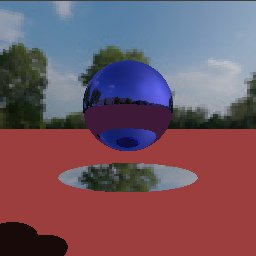
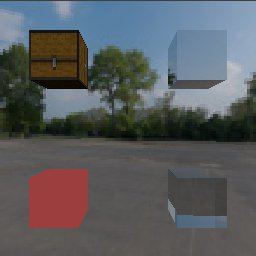
cubos
se implementaron los cubos

diff --git a/figuras.py b/figuras.py
@@ -106,5 +106,88 @@ class Disk(Plane):
                      texcoords= None,
                      obj = self)
   
+class AABB(Shape):
+  # Axis Aligned Bounding box
+  def __init__(self, position, size, material):
+    super().__init__(position, material)
+
+    self.planes = []
+    self.size = size
+
+    
+    leftPlane = Plane(np.add(self.position , (-size[0]/ 2,0,0)), (-1,0,0), material )
+    rightPlane = Plane(np.add(self.position , (size[0] / 2,0,0)), (1,0,0), material )
+
+    bottomPlane = Plane(np.add(self.position, (0,-size[1] / 2,0)),(0,-1,0),material)
+    topPlane = Plane(np.add(self.position, (0,size[1] / 2,0)),(0,1,0),material)
+
+    backPlane = Plane(np.add(self.position, (0,0,-size[2] / 2)),(0,0,-1),material)
+    frontPlane = Plane(np.add(self.position, (0,0,size[2] / 2)),(0,0,1),material)
+
+    self.planes.append(leftPlane)
+    self.planes.append(rightPlane)
+    self.planes.append(bottomPlane)
+    self.planes.append(topPlane)
+    self.planes.append(backPlane)
+    self.planes.append(frontPlane)
+    
+    # Bounds
+    self.boundsMin = [0,0,0]
+    self.boundsMax = [0,0,0]
+
+    bias = 0.001
+
+    for i in range(3):
+      self.boundsMin[i] = self.position[i] - (bias + size[i]/2)
+      self.boundsMax[i] = self.position[i] + (bias + size[i]/2)
+
+  def ray_intersect(self, orig, dir):
+    intersect = None
+    t = float('inf')
+
+    u = 0
+    v = 0
+
+    for plane in self.planes:
+
+      planeIntersect = plane.ray_intersect(orig,dir)
+
+      if planeIntersect is not None:
+
+        planePoint = planeIntersect.point
+
+        if self.boundsMin[0] < planePoint[0] < self.boundsMax[0]:
+          if self.boundsMin[1] < planePoint[1] < self.boundsMax[1]:
+            if self.boundsMin[2] < planePoint[2] < self.boundsMax[2]:
+              if planeIntersect.distance < t:
+                t = planeIntersect.distance
+                intersect = planeIntersect
+
+                # Generar las uvs
+                if abs(plane.normal[0]) > 0:
+                  # Estoy en X, usamos Y y Z para generar las uvs
+                  u = (planePoint[1] - self.boundsMin[1]) / (self.size[1] + 0.002)
+                  v = (planePoint[2] - self.boundsMin[2]) / (self.size[2] + 0.002)
+                elif abs(plane.normal[1]) > 0:
+                  # Estoy en Y, usamos X y Z para generar las uvs
+                  u = (planePoint[0] - self.boundsMin[0]) / (self.size[0] + 0.002)
+                  v = (planePoint[2] - self.boundsMin[2]) / (self.size[2] + 0.002)
+                elif abs(plane.normal[2]) > 0:
+                  # Estoy en Z, usamos X y Y para generar las uvs
+                  u = (planePoint[0] - self.boundsMin[0]) / (self.size[0] + 0.002)
+                  v = (planePoint[1] - self.boundsMin[1]) / (self.size[1] + 0.002)
+
+    if intersect is None:
+      return None
+    
+    return Intercept(distance = t,
+                     point = intersect.point,
+                     normal = intersect.normal,
+                     texcoords= (u,v),
+                     obj = self)
+
+    
+
+  
 
       

diff --git a/Raytracer.py b/Raytracer.py
@@ -25,10 +25,12 @@ ballTexture = pygame.image.load("basketballTextureMap.jpg")
 marbleTexture = pygame.image.load("marbleTextureMap.jpg")
 gemTexture = pygame.image.load("gemTexture.png")
 pokeballTexture = pygame.image.load("pokeballTexture.jpg")
+chestTexture = pygame.image.load("chest.jpg")
 
 #OPAQUE MATS
 earth = Material(texture = earthTexture,spec = 32, ks = 0.1, matType = OPAQUE )
 ball = Material(texture = pokeballTexture,spec = 64, ks = 0.2, matType = OPAQUE )
+chest = Material(texture = chestTexture,spec = 64, ks = 0.2, matType = OPAQUE )
 
 #REFLECTIVE MATS
 marble = Material(texture = marbleTexture,spec = 64, ks = 0.1, matType=REFLECTIVE )
@@ -60,9 +62,15 @@ mirror = Material(diffuse = (0.9,0.9,0.9), spec = 64, ks = 0.2, matType = REFLEC
 glass = Material(diffuse= (0.9,0.9,0.9),spec = 64, ks = 0.15, ior = 1.5, matType=TRANSPARENT)
 water = Material(diffuse = (0.4,0.4,1.0), spec = 128, ks = 0.2, ior= 1.33, matType = TRANSPARENT)
 
-raytracer.scene.append(Sphere(position=(0,0.5,-5), radius = 1, material=blueMirror))
-raytracer.scene.append(Plane(position= (0,-5,0), normal = (0,1,0), material = brick))
-raytracer.scene.append(Disk(position= (0,-1,-5), normal = (0,1,0),radius = 1.5, material = mirror))
+#raytracer.scene.append(Sphere(position=(0,0.5,-5), radius = 1, material=blueMirror))
+#raytracer.scene.append(Plane(position= (0,-5,0), normal = (0,1,0), material = brick))
+#raytracer.scene.append(Disk(position= (0,-1,-5), normal = (0,1,0),radius = 1.5, material = mirror))
+raytracer.scene.append(AABB(position= (-1.5,1.5,-5), size = (1,1,1), material = chest))
+raytracer.scene.append(AABB(position= (-1.5,-1.5,-5), size = (1,1,1), material = brick))
+raytracer.scene.append(AABB(position= (1.5,1.5,-5), size = (1,1,1), material = mirror))
+raytracer.scene.append(AABB(position= (1.5,-1.5,-5), size = (1,1,1), material = glass))
+
+
 #Luces
 raytracer.lights.append(AmbientLight(intensity=0.1))  
 raytracer.lights.append(DirectionalLight(direction=(-1, -1, -1), intensity=0.9))  

diff --git a/rt.py b/rt.py
@@ -95,8 +95,8 @@ class Raytracer(object):
         material = intercept.obj.material
         surfaceColor = material.diffuse
         if material.texture and intercept.texcoords:
-            tX = intercept.texcoords[0] * material.texture.get_width()
-            tY = intercept.texcoords[1] * material.texture.get_height()
+            tX = intercept.texcoords[0] * material.texture.get_width() -1
+            tY = intercept.texcoords[1] * material.texture.get_height() - 1
             texColor = material.texture.get_at((int(tX),int(tY)))
             texColor = [i / 255 for i in texColor]
             surfaceColor = [surfaceColor[i] * texColor[i] for i in range(3) ]
